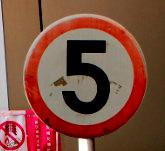
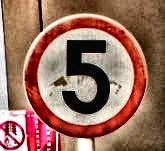
clahe method added to contrast.py

diff --git a/contrast.py b/contrast.py
@@ -1,23 +1,20 @@
-from PIL import Image
+from PIL import Image, ImageEnhance
 import glob
 import numpy as np
 from scipy import misc, ndimage
-
+import cv2
 
 
 def change_contrast(filepath, level):
 
     img = Image.open(filepath)
     img.load()
-
-
-
     #img = misc.img(gray=True).astype(float)
     blurred_f = ndimage.gaussian_filter(img, 3)	
     filter_blurred_f = ndimage.gaussian_filter(blurred_f, 1)
     alpha = 30
-    sharpened = blurred_f + alpha * (blurred_f - filter_blurred_f)
 
+    sharpened = blurred_f + alpha * (blurred_f - filter_blurred_f)
     im = ndimage.distance_transform_bf(sharpened)
     im_noise = im + 0.2 * np.random.randn(*im.shape)
     im_med = ndimage.median_filter(im_noise, 3)
@@ -31,9 +28,21 @@ def change_contrast(filepath, level):
 
     return img
 
+def clahe (image_path):
+
+	bgr = cv2.imread(image_path)
+	lab = cv2.cvtColor(bgr, cv2.COLOR_BGR2LAB)
+	lab_planes = cv2.split(lab)
+	clahe = cv2.createCLAHE(clipLimit=2.0,tileGridSize=(8,8))
+	lab_planes[0] = clahe.apply(lab_planes[0])
+	lab = cv2.merge(lab_planes)
+	bgr = cv2.cvtColor(lab, cv2.COLOR_LAB2BGR)
+	return bgr
+
 
 for filepath in glob.iglob('data/circle/*.jpg'):
     result = change_contrast(filepath, 100)
     result.save(filepath)
-
+    result = clahe(filepath)
+    cv2.imwrite(filepath, result)
 print('done')
